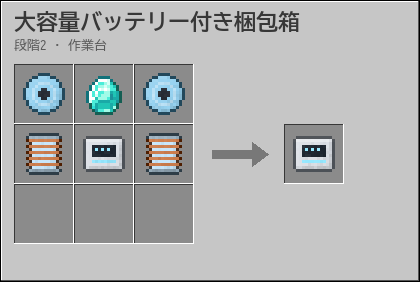
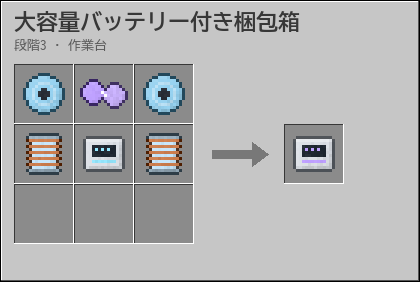
balance: keep the phase shift upgrade (stage 4) and large battery crate (stage 3) in upper tiers

diff --git a/tools/guide.py b/tools/guide.py
@@ -1187,14 +1187,14 @@ CHAPTERS = [
          'ドローンは壁や天井を抜けずに飛びます。近い行き先は、空いている所をたどる道を探し、遠い行き先は、出発点から空の見える所へ出て、'
          '地形より高い所を巡航し、行き先の上の空から降ります。建物の中のポートにも、扉や窓、天窓から入っていきます。'
          '開いた所のない部屋のポートには入れず、輸送中のページに「経路なし」と出ます（荷物は失われず、ドローンはその場で待って道を探し直します）。\n'
-         '段階2の精密組立台で作る位相透過アップグレードを、ドローン・ステーションの右レールの強化の段に入れると、そのステーションのドローンは'
+         '段階4の精密組立台で作る位相透過アップグレードを、ドローン・ステーションの右レールの強化の段に入れると、そのステーションのドローンは'
          '壁を抜けてまっすぐ飛びます。壁を抜ける少し前から紫に光り、壁越しにも光る姿が見えます。',
          'Routes and phase shift',
          'Drones do not fly through walls or roofs. For nearby destinations they find a path through open space; for distant ones they leave '
          'to open sky, cruise above the terrain and come down from the sky above the destination. They enter ports inside buildings through '
          'doors, windows and skylights. A port in a room with no opening cannot be reached and shows No route in the In-transit page '
          '(the cargo is safe; the drone waits and searches again).\n'
-         'Put a Phase Shift Upgrade (stage 2, Precision Assembler) in the upgrade slot on a Drone Station’s right rail and its drones fly '
+         'Put a Phase Shift Upgrade (stage 4, Precision Assembler) in the upgrade slot on a Drone Station’s right rail and its drones fly '
          'straight through walls. They glow violet from just before a wall, and the glow shows through it.'),
         ('auto', '自動発送',
          '発送のタブの下の段で、自動発送を使えます。しきい値のボタンを押すたびに、しない・1個・64個・256個・満杯（荷物の9欄すべてがいっぱい）と切り替わります。一覧で行き先を選んで「登録」を押すと、それが自動発送の行き先になります（手で送る行き先とは別に覚えます）。\n荷物の欄がしきい値までたまり、2秒たっても増えなければ（満杯ならすぐ）、登録した行き先へ自動で発送します。空き箱・射程・電力・ドローンの条件は手で送るときと同じです。ホッパーやパイプで荷物を入れ続ければ、採掘場などから拠点へ自動で運び続けられます。',

diff --git a/docs/0.14.0/drone-logistics.md b/docs/0.14.0/drone-logistics.md
@@ -77,7 +77,7 @@
 - **通り道**: ドローンは壁や天井を抜けない（`DroneRoute`）。行き先が近い（水平32ブロック以内）なら出発点から目的地まで空いているマスをたどる道を探し、遠ければ出発点から空の見える所（その列のいちばん高いブロックより上）まで出る道と、目的地から空へ出る道を探して、その間は途中の地形（1ブロックごと）より4ブロック上を巡航する。A*（6方向と水平の斜め。斜めは両わきが空いているときだけ）で、探す範囲は各方向40マス・16,000マスまで。読み込まれていない所は探さない（読み込まない）。見通しのきく点は飛ばしてなめらかにする。
 - 道が見つからないと、ドローンはその場で待って2秒ごとに探し直し、ポートの輸送中のページに「経路なし」と出る（荷物は便の記録の側にあるので失われない）。
 - 見えない飛行から出てくるときは、空の見える高さに出してから、道を探して降りる。
-- **位相透過アップグレード**（段階3・精密組立台）: ステーションの右レールの強化の段（加工装置のアップグレードと同じ場所）に入れると、そのステーションのドローンは壁を抜けて、目的地の少し上へまっすぐ近道する。ドローンの箱か、進む向きに1.4ブロック先までがブロックに重なると、壁を抜けている間とその前後（抜け終えて0.4秒）に紫の光をまとう。光る姿は奥行きを比べずに描くので壁越しに見え、紫の粒と専用の音が出る。
+- **位相透過アップグレード**（段階4・精密組立台）: ステーションの右レールの強化の段（加工装置のアップグレードと同じ場所）に入れると、そのステーションのドローンは壁を抜けて、目的地の少し上へまっすぐ近道する。ドローンの箱か、進む向きに1.4ブロック先までがブロックに重なると、壁を抜けている間とその前後（抜け終えて0.4秒）に紫の光をまとう。光る姿は奥行きを比べずに描くので壁越しに見え、紫の粒と専用の音が出る。
 - **着荷箱の重なり**: 空になった箱が空き箱の欄に入らない（別の段階の箱・満杯）ときは、着荷箱の欄の同じ空の箱に重ねて、次の荷物のための欄を空ける。
 
 ### 4回目の調整（型と高さ）
@@ -98,7 +98,7 @@
 
 ### 5回目の調整（入手と段階）
 
-- **ドローンのレシピ**: すべて段階2で作れる。大容量バッテリー付き梱包箱は量子もつれ素子の代わりにダイヤモンド、位相透過アップグレードはアメジストの欠片を使う。
+- **ドローンのレシピ**: ステーション・ポート・キット・梱包箱・バッテリー付き梱包箱は段階2。上位の物は上の段階のまま: 大容量バッテリー付き梱包箱は段階3（量子もつれ素子）、位相透過アップグレードは段階4（エキゾチック物質と量子もつれ素子）。
 - **メモリの入手**（`DroneKind.memoryChance`・`rollMemory`）: ドックの段階は施設で決まる（地表観測拠点1・研究棟2・封鎖培養施設と地下アンドロイド研究所3）。上の型は上位の施設からだけ出る。地下研究所はドックが多いので、上位ほど確率を下げる。
 
 | ドックの段階 | 一波を倒して出る確率 | ローター | ジェット | 反重力 |

diff --git a/docs/recipes/README.md b/docs/recipes/README.md
@@ -1112,18 +1112,6 @@ Pリアクターの燃料
 
 760ブロックまで送れる
 
-### 大容量バッテリー付き梱包箱
-
-![大容量バッテリー付き梱包箱](373_large_battery_packing_crate.png)
-
-3,160ブロックまで送れる
-
-### 位相透過アップグレード
-
-![位相透過アップグレード](374_drone_phase_upgrade.png)
-
-ドローン・ステーションの強化の段に入れると、そのステーションのドローンが壁を抜けて飛ぶ
-
 ## 段階3　量子
 
 ### 冷却塔拡張（高さ10）
@@ -1345,6 +1333,12 @@ Pリアクターの燃料
 ![容量アップグレード（Mk2）](366_capacity_upgrade_2.png)
 
 Mk1を材料にする。蓄電容量を最低4,000,000 FEにする
+
+### 大容量バッテリー付き梱包箱
+
+![大容量バッテリー付き梱包箱](373_large_battery_packing_crate.png)
+
+3,160ブロックまで送れる
 
 ## 段階4　時間
 
@@ -1659,6 +1653,12 @@ Mk1を材料にする。蓄電容量を最低4,000,000 FEにする
 ![容量アップグレード（Mk3）](367_capacity_upgrade_3.png)
 
 Mk2を材料にする。蓄電容量を最低40,000,000 FEにする
+
+### 位相透過アップグレード
+
+![位相透過アップグレード](374_drone_phase_upgrade.png)
+
+ドローン・ステーションの強化の段に入れると、そのステーションのドローンが壁を抜けて飛ぶ
 
 ## 段階5　特異点
 
